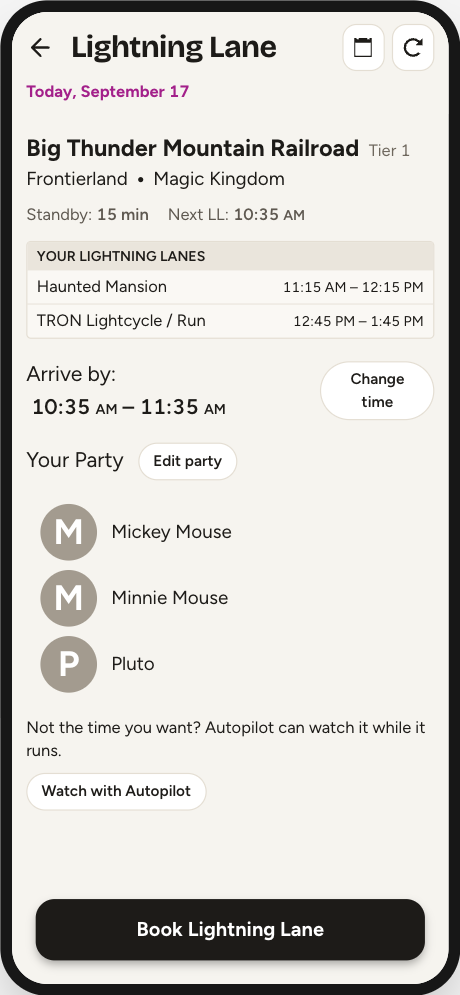
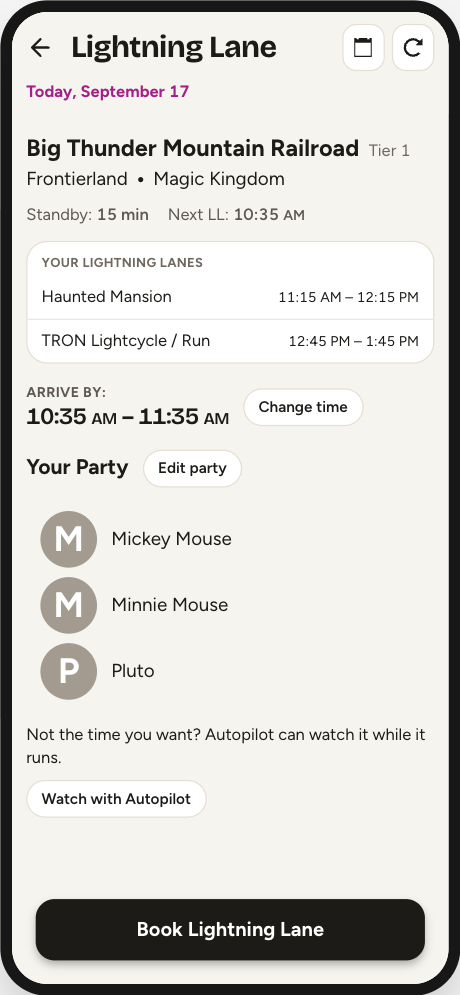
New look, slice 11: the booking screens (#37)
The booking screens brought in line with the rest. Looks only: the same
screens, words and taps, and the floating Book button keeps its place.

- The return window, the thing these screens are for, as the biggest
  thing on them: in the display face under a small "Arrive by:" label,
  with AM and PM smaller. Label and window are still one element, which
  reads "Arrive by: 10:35 AM – 11:35 AM". It is ReturnTime, so the
  booking screen, a pass's details, the change-time screens and Cancel
  all draw it so.
- Your Lightning Lanes as a card with a small label, where it was a grey
  box with a grey bar; a pass in the same tier keeps its yellow.
- Their headings in bold, as Today's are; rounder notices, and a rounder
  cancel dialog.

Checked in the harness at 360 px: the booking screen, a pass's details
and Change time. Of the guide's screenshots only the booking screen's
changes; it is retaken.

diff --git a/src/components/ll/ReturnTime.tsx b/src/components/ll/ReturnTime.tsx
@@ -6,11 +6,16 @@ export default function ReturnTime({
   button,
 }: Parameters<typeof ReturnWindow>[0] & { button?: React.ReactNode }) {
   return (
-    <div className="mt-4 text-lg">
+    <div className="mt-4">
       <div className="flex items-center gap-x-3">
-        <div>
-          {end ? 'Arrive by' : 'Reservation at'}:{' '}
-          <span className="pl-1 font-semibold">
+        {/* The window is the thing this screen is for, so it is the biggest
+            thing on it, in the display face; the label and the window are one
+            element still, which reads "Arrive by: 10:35 AM – 11:35 AM". */}
+        <div className="min-w-0 flex-1">
+          <span className="block text-xs font-bold tracking-wide text-gray-600 uppercase">
+            {end ? 'Arrive by' : 'Reservation at'}:
+          </span>{' '}
+          <span className="block font-display text-xl leading-tight font-semibold tracking-tight text-ink [&_time_span_span]:text-sm">
             <ReturnWindow start={start} end={end} />
           </span>
         </div>

diff --git a/src/components/ll/ExistingBookings.tsx b/src/components/ll/ExistingBookings.tsx
@@ -22,8 +22,8 @@ export default function ExistingBookings({
   if (bookings.length === 0) return null;
 
   return (
-    <div className="mt-3 rounded-sm border border-gray-300 bg-gray-50 text-sm">
-      <div className="px-2 py-1 bg-gray-200 font-semibold text-xs uppercase">
+    <div className="mt-3 overflow-hidden rounded-[18px] border border-gray-300 bg-white text-sm">
+      <div className="px-3 pt-2.5 pb-1 text-[11px] font-bold tracking-wide text-gray-500 uppercase">
         Your Lightning Lanes
       </div>
       <ul className="divide-y divide-gray-200">
@@ -34,7 +34,7 @@ export default function ExistingBookings({
           return (
             <li
               key={b.id}
-              className={`px-2 py-1 flex justify-between items-center ${sameTier ? 'bg-yellow-50' : ''}`}
+              className={`flex items-center justify-between px-3 py-2 ${sameTier ? 'bg-yellow-50' : ''}`}
             >
               <span className={sameTier ? 'font-semibold' : ''}>
                 {b.name}

diff --git a/src/components/ll/screens/SelectReturnTime.tsx b/src/components/ll/screens/SelectReturnTime.tsx
@@ -99,8 +99,8 @@ export default function SelectReturnTime<B extends Offer['booking']>({
       <h2>{offer.experience.name}</h2>
       <LandLine land={offer.experience.land} />
       {booking && !rebooking.current && (
-        <div className="mt-2 rounded-sm bg-gray-100 p-2 text-sm">
-          <p>
+        <div className="mt-2 rounded-2xl bg-gray-100 p-3.5 text-sm">
+          <p className="my-0">
             Nothing here yet? A search can keep checking every time on offer and
             take a better one the moment it appears.
           </p>
@@ -123,7 +123,7 @@ export default function SelectReturnTime<B extends Offer['booking']>({
         <>
           {fullAvailabilityAllowed && (
             <div className="flex items-center gap-x-4 mt-4">
-              <h3 className="mt-0">Available Times</h3>
+              <h3 className="mt-0 font-bold">Available Times</h3>
               <label className="flex items-center gap-x-2">
                 <input
                   type="checkbox"

diff --git a/src/components/ll/screens/BookExperience/NoEligibleGuests.tsx b/src/components/ll/screens/BookExperience/NoEligibleGuests.tsx
@@ -15,7 +15,7 @@ export default function NoEligibleGuests() {
     <>
       {rebooking.current ? (
         <>
-          <h3>Unable to Modify</h3>
+          <h3 className="font-bold">Unable to Modify</h3>
           <p>
             Your current reservation cannot be modified to this experience due
             to the following conflicts:
@@ -33,7 +33,7 @@ export default function NoEligibleGuests() {
                 }
               />
             )}
-          <h3>No Eligible Guests</h3>
+          <h3 className="font-bold">No Eligible Guests</h3>
           <p>
             No one in your party is currently eligible for this Lightning Lane.
           </p>

diff --git a/src/components/ll/screens/BookingDetails.tsx b/src/components/ll/screens/BookingDetails.tsx
@@ -84,7 +84,7 @@ export default function BookingDetails({
       {warning && (
         <p
           role="alert"
-          className="mt-3 rounded-sm bg-amber-100 p-2 text-amber-900"
+          className="mt-3 rounded-2xl bg-amber-100 p-3.5 text-amber-900"
         >
           {warning}
         </p>
@@ -156,7 +156,7 @@ export default function BookingDetails({
         </>
       )}
       <div className="flex mt-4">
-        <h3 className="inline mt-0">Your Party</h3>
+        <h3 className="mt-0 inline font-bold">Your Party</h3>
         {booking.cancellable && guests && (
           <Button
             type="small"

diff --git a/src/components/ll/screens/BookExperience/PartyList.tsx b/src/components/ll/screens/BookExperience/PartyList.tsx
@@ -29,7 +29,7 @@ export default function PartyList() {
       {selected.length > 0 ? (
         <>
           <div className="mt-4">
-            <h3 className="inline mt-0">Your Party</h3>
+            <h3 className="mt-0 inline font-bold">Your Party</h3>
             <Button
               type="small"
               onClick={() => goTo(<ModifyParty party={party} />)}
@@ -42,7 +42,7 @@ export default function PartyList() {
         </>
       ) : (
         <>
-          <h3>Ineligible Guests</h3>
+          <h3 className="font-bold">Ineligible Guests</h3>
           <IneligibleGuestList />
         </>
       )}

diff --git a/src/components/ll/screens/BookExperience.tsx b/src/components/ll/screens/BookExperience.tsx
@@ -329,7 +329,7 @@ export default function BookExperience({
             <div />
           ) : offer === null && offerFailed ? (
             <div role="status" className="mt-4">
-              <h3>Could not reach Disney</h3>
+              <h3 className="font-bold">Could not reach Disney</h3>
               <p>
                 The request for an offer did not get an answer, so this says
                 nothing about whether a Lightning Lane is available.

diff --git a/src/components/ll/screens/CancelGuests.tsx b/src/components/ll/screens/CancelGuests.tsx
@@ -138,7 +138,7 @@ export default function CancelGuests<B extends LightningLane | DasBooking>({
           <div
             role="alertdialog"
             aria-labelledby={confirmTitleId}
-            className="max-w-sm rounded-lg bg-white p-4 text-black"
+            className="max-w-sm rounded-2xl bg-white p-5 text-black"
           >
             <h3 id={confirmTitleId} className="mt-0 font-semibold">
               {cancelingAll

diff --git a/src/components/ll/screens/BookExperience/NoReservationsAvailable.tsx b/src/components/ll/screens/BookExperience/NoReservationsAvailable.tsx
@@ -3,7 +3,7 @@ import PartyList from './PartyList';
 export default function NoReservationsAvailable() {
   return (
     <>
-      <h3>No Reservations Available</h3>
+      <h3 className="font-bold">No Reservations Available</h3>
       <p>
         There aren't enough reservation slots available for your entire party.
         If only part of your group wishes to go on this attraction, edit your

diff --git a/src/components/ll/screens/BookExperience/NoGuestsFound.tsx b/src/components/ll/screens/BookExperience/NoGuestsFound.tsx
@@ -7,7 +7,7 @@ export default function NoGuestsFound({
 }) {
   return (
     <>
-      <h3>No Guests Found</h3>
+      <h3 className="font-bold">No Guests Found</h3>
       <p>
         Your party could not be loaded. This is probably just a temporary
         network error. Wait a few seconds and try again.

diff --git a/docs/NEW-LOOK.md b/docs/NEW-LOOK.md
@@ -73,6 +73,7 @@ park. Each slice keeps all of them.
 | 8 | Configure | its section headings in bold, as Today's are; the add list and the not-on-today's-list list as cards of rows, the add rows the same buttons without their borders; rounder target cards, filter box, notices and undo strip | in review |
 | 9 | Plan Check | its headings in bold, as Today's are; the summary, each item, the connection result, the party result and the doubts panel as rounded boxes, as Today's notices are | in review |
 | 10 | Activity | its headings in bold, as Today's are; the log, the skip counts and the learned drop times each as a card with hairline rules; each log line's time in semibold | in review |
+| 11 | Booking screens | the return window as the biggest thing on them, in the display face, under a small label, still one element that reads "Arrive by: 10:35 AM – 11:35 AM"; Your Lightning Lanes as a card; their headings in bold; rounder notices and the cancel dialog | in review |
 
 **One deliberate departure from the mockups.** They put Today's main actions in
 a bar along the bottom. The switch stays in the page instead: a bar there sits
@@ -85,8 +86,8 @@ switch would be a new filter, not a new look, so it is not part of these
 slices. The mockups' single tappable park, date and party chip likewise: the
 header keeps its separate controls until that is built as behaviour.
 
-**Not yet redrawn** beyond what the foundation gave them: Timeline, the booking
-screens and Settings. They already have the palette, type, header, tab bar and buttons.
+**Not yet redrawn** beyond what the foundation gave them: Timeline and
+Settings. They already have the palette, type, header, tab bar and buttons.
 
 **The user guide's screenshots** show the new look. All 21 were retaken
 together once the new look's slices and the usability work had landed, from the
